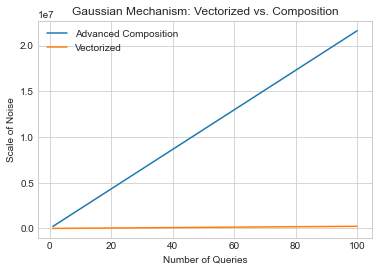
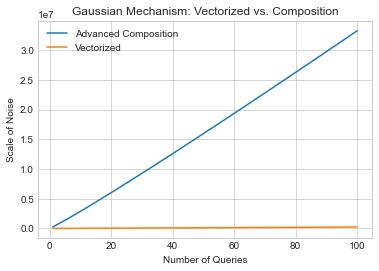
Update documentation

diff --git a/ch8.html b/ch8.html
@@ -473,8 +473,8 @@ title="Print to PDF"
 </div>
 <p>The two lines overlap <em>completely</em>. This means that no matter how many queries we’re running, under <span class="math notranslate nohighlight">\(\epsilon\)</span>-differential privacy, we can’t do any better than sequential composition. That’s because sequential composition is just as good as vectorizing the query, effectively converting it to a single query without involving composition, and we can’t do any better than that.</p>
 <p>What about <span class="math notranslate nohighlight">\((\epsilon, \delta)\)</span>-differential privacy? The story is a little different there. In the sequential composition case, we can use advanced composition; we have to be a little careful to ensure that the total privacy cost is exactly <span class="math notranslate nohighlight">\((\epsilon, \delta)\)</span>. Specifically, we set <span class="math notranslate nohighlight">\(\epsilon_i = \frac{\epsilon}{2 \sqrt{2k \log(1/\delta')}}\)</span>, <span class="math notranslate nohighlight">\(\delta_i = \frac{\delta}{2k}\)</span>, and <span class="math notranslate nohighlight">\(\delta' = \frac{\delta}{2}\)</span> (splitting <span class="math notranslate nohighlight">\(\delta\)</span> to go 50% towards the queries, and 50% towards advanced composition). By advanced composition, the total privacy cost for all <span class="math notranslate nohighlight">\(k\)</span> queries is <span class="math notranslate nohighlight">\((\epsilon, \delta)\)</span>. The scale of the noise, by the Gaussian mechanism, is:</p>
-<div class="amsmath math notranslate nohighlight" id="equation-2ca46837-ee75-4f2c-8f62-ad0c5d54a1bd">
-<span class="eqno">(22)<a class="headerlink" href="#equation-2ca46837-ee75-4f2c-8f62-ad0c5d54a1bd" title="Permalink to this equation">#</a></span>\[\begin{align}
+<div class="amsmath math notranslate nohighlight" id="equation-56bfe49c-38d4-4024-90ab-d551a4c32bb1">
+<span class="eqno">(22)<a class="headerlink" href="#equation-56bfe49c-38d4-4024-90ab-d551a4c32bb1" title="Permalink to this equation">#</a></span>\[\begin{align}
 \sigma^2 =&amp; \frac{2 \log\left(\frac{1.25}{\delta_i}\right)}{\epsilon_i^2}\\
  =&amp; \frac{16 k \log\left(\frac{1}{\delta'}\right) \log\left(\frac{1.25}{\delta_i}\right)}{\epsilon^2}\\
  =&amp; \frac{16 k \log\left(\frac{2}{\delta}\right) \log\left(\frac{2.5 k}{\delta}\right)}{\epsilon^2}\\
@@ -489,7 +489,7 @@ title="Print to PDF"
 
 <span class="c1"># L2 sensitivity of each query: 1</span>
 <span class="c1"># number of queries: k</span>
-<span class="n">noises_seq</span> <span class="o">=</span> <span class="p">[</span><span class="mi">16</span><span class="o">*</span><span class="n">k</span><span class="o">*</span><span class="n">np</span><span class="o">.</span><span class="n">log</span><span class="p">(</span><span class="mf">1.25</span><span class="o">/</span><span class="n">delta</span><span class="p">)</span><span class="o">*</span><span class="n">np</span><span class="o">.</span><span class="n">log</span><span class="p">(</span><span class="mi">1</span><span class="o">/</span><span class="n">delta</span><span class="p">)</span><span class="o">/</span><span class="p">(</span><span class="n">epsilon</span><span class="o">**</span><span class="mi">2</span><span class="p">)</span> <span class="k">for</span> <span class="n">k</span> <span class="ow">in</span> <span class="n">ks</span><span class="p">]</span>
+<span class="n">noises_seq</span> <span class="o">=</span> <span class="p">[</span><span class="mi">16</span><span class="o">*</span><span class="n">k</span><span class="o">*</span><span class="n">np</span><span class="o">.</span><span class="n">log</span><span class="p">((</span><span class="mf">2.5</span><span class="o">*</span><span class="n">k</span><span class="p">)</span><span class="o">/</span><span class="n">delta</span><span class="p">)</span><span class="o">*</span><span class="n">np</span><span class="o">.</span><span class="n">log</span><span class="p">(</span><span class="mi">2</span><span class="o">/</span><span class="n">delta</span><span class="p">)</span><span class="o">/</span><span class="p">(</span><span class="n">epsilon</span><span class="o">**</span><span class="mi">2</span><span class="p">)</span> <span class="k">for</span> <span class="n">k</span> <span class="ow">in</span> <span class="n">ks</span><span class="p">]</span>
 <span class="n">plt</span><span class="o">.</span><span class="n">plot</span><span class="p">(</span><span class="n">ks</span><span class="p">,</span> <span class="n">noises_seq</span><span class="p">,</span> <span class="n">label</span><span class="o">=</span><span class="s1">&#39;Advanced Composition&#39;</span><span class="p">)</span>
 
 <span class="c1"># number of queries: 1</span>
@@ -511,18 +511,18 @@ title="Print to PDF"
 <div class="section" id="max-divergence-and-renyi-divergence">
 <h2>Max Divergence and Rényi Divergence<a class="headerlink" href="#max-divergence-and-renyi-divergence" title="Permalink to this headline">#</a></h2>
 <p>It turns out that the definition of differential privacy can be stated directly in terms of something called <em>max divergence</em>. In statistics, a <a class="reference external" href="https://en.wikipedia.org/wiki/Divergence_(statistics)"><em>divergence</em></a> is a way of measuring the distance between two probability distributions - which is exactly what we want to do for differential privacy. The <em>max divergence</em> is the worst-case analog of the <a class="reference external" href="https://en.wikipedia.org/wiki/Kullback%E2%80%93Leibler_divergence">Kullback–Leibler divergence</a>, one of the most common such measures. The max divergence between two probability distributions <span class="math notranslate nohighlight">\(Y\)</span> and <span class="math notranslate nohighlight">\(Z\)</span> is defined to be:</p>
-<div class="amsmath math notranslate nohighlight" id="equation-134c44db-1a00-4066-a55b-366f78b96691">
-<span class="eqno">(23)<a class="headerlink" href="#equation-134c44db-1a00-4066-a55b-366f78b96691" title="Permalink to this equation">#</a></span>\[\begin{align}
+<div class="amsmath math notranslate nohighlight" id="equation-581e46b9-94a8-4173-aa50-ea4adfe9fe08">
+<span class="eqno">(23)<a class="headerlink" href="#equation-581e46b9-94a8-4173-aa50-ea4adfe9fe08" title="Permalink to this equation">#</a></span>\[\begin{align}
 D_\infty(Y \Vert Z) = \max_{S \subseteq \text{Supp}(Y)} \Big[\log \frac{Pr[Y \in S]}{Pr[Z \in S]} \Big]
 \end{align}\]</div>
 <p>This already looks a lot like the condition for <span class="math notranslate nohighlight">\(\epsilon\)</span>-differential privacy! In particular, it turns out that <span class="math notranslate nohighlight">\(F\)</span> satisfies <span class="math notranslate nohighlight">\(\epsilon\)</span>-differential privacy if:</p>
-<div class="amsmath math notranslate nohighlight" id="equation-bb7ff112-5dd7-4e70-acca-33a1091c7701">
-<span class="eqno">(24)<a class="headerlink" href="#equation-bb7ff112-5dd7-4e70-acca-33a1091c7701" title="Permalink to this equation">#</a></span>\[\begin{align}
+<div class="amsmath math notranslate nohighlight" id="equation-1fe5936f-06e8-4665-a4ab-f2b12c73f4ed">
+<span class="eqno">(24)<a class="headerlink" href="#equation-1fe5936f-06e8-4665-a4ab-f2b12c73f4ed" title="Permalink to this equation">#</a></span>\[\begin{align}
 D_\infty(F(x) \Vert F(x') \leq \epsilon
 \end{align}\]</div>
 <p>An interesting direction for research in differential privacy is the exploration of alternative privacy definitions in terms of other divergences. Of these, the <a class="reference external" href="https://en.wikipedia.org/wiki/R%C3%A9nyi_entropy#R%C3%A9nyi_divergence">Rényi divergence</a> is particularly interesting, since it also (like max divergence) allows us to recover the original definition of differential privacy. The Rényi divergence of order <span class="math notranslate nohighlight">\(\alpha\)</span> between probability distributions <span class="math notranslate nohighlight">\(P\)</span> and <span class="math notranslate nohighlight">\(Q\)</span> is defined as (where <span class="math notranslate nohighlight">\(P(x)\)</span> and <span class="math notranslate nohighlight">\(Q(x)\)</span> denote the probability density of <span class="math notranslate nohighlight">\(P\)</span> and <span class="math notranslate nohighlight">\(Q\)</span> at point <span class="math notranslate nohighlight">\(x\)</span>, respectively):</p>
-<div class="amsmath math notranslate nohighlight" id="equation-0560df47-5e6c-4e8f-995b-f4659ae13ebb">
-<span class="eqno">(25)<a class="headerlink" href="#equation-0560df47-5e6c-4e8f-995b-f4659ae13ebb" title="Permalink to this equation">#</a></span>\[\begin{align}
+<div class="amsmath math notranslate nohighlight" id="equation-6ef86378-d190-44fe-bf0a-f0917f354d5c">
+<span class="eqno">(25)<a class="headerlink" href="#equation-6ef86378-d190-44fe-bf0a-f0917f354d5c" title="Permalink to this equation">#</a></span>\[\begin{align}
 D_\alpha(P \Vert Q) = \frac{1}{\alpha - 1} \log E_{x \sim Q} \Big(\frac{P(x)}{Q(x)}\Big)^\alpha
 \end{align}\]</div>
 <p>If we set <span class="math notranslate nohighlight">\(\alpha = \infty\)</span>, then we immediately recover the definition of <span class="math notranslate nohighlight">\(\epsilon\)</span>-differential privacy! The obvious question arises: what happens if we set <span class="math notranslate nohighlight">\(\alpha\)</span> to something else? As we’ll see, it’s possible to use the Rényi divergence to derive really interesting relaxations of differential privacy that allow better composition theorems while at the same time avoiding the possibility of “catastrophe” which is possible under <span class="math notranslate nohighlight">\((\epsilon, \delta)\)</span>-differential privacy.</p>
@@ -530,15 +530,15 @@ D_\alpha(P \Vert Q) = \frac{1}{\alpha - 1} \log E_{x \sim Q} \Big(\frac{P(x)}{Q(
 <div class="section" id="renyi-differential-privacy">
 <h2>Rényi Differential Privacy<a class="headerlink" href="#renyi-differential-privacy" title="Permalink to this headline">#</a></h2>
 <p>In 2017, Ilya Mironov proposed <a class="reference external" href="https://arxiv.org/abs/1702.07476">Rényi differential privacy (RDP)</a> <span id="id1">[<a class="reference internal" href="bibliography.html#id13" title="Ilya Mironov. Renyi differential privacy. In Computer Security Foundations Symposium (CSF), 2017 IEEE 30th, 263–275. IEEE, 2017.">10</a>]</span>. A randomized mechanism <span class="math notranslate nohighlight">\(F\)</span> satisfies <span class="math notranslate nohighlight">\((\alpha, \bar{\epsilon})\)</span>-RDP if for all neighboring datasets <span class="math notranslate nohighlight">\(x\)</span> and <span class="math notranslate nohighlight">\(x'\)</span></p>
-<div class="amsmath math notranslate nohighlight" id="equation-559b3cf5-3179-412b-92a8-11d0a9381a73">
-<span class="eqno">(26)<a class="headerlink" href="#equation-559b3cf5-3179-412b-92a8-11d0a9381a73" title="Permalink to this equation">#</a></span>\[\begin{align}
+<div class="amsmath math notranslate nohighlight" id="equation-e24c1347-c408-47c3-92a5-959ae7e8d971">
+<span class="eqno">(26)<a class="headerlink" href="#equation-e24c1347-c408-47c3-92a5-959ae7e8d971" title="Permalink to this equation">#</a></span>\[\begin{align}
 D_\alpha(F(x) \Vert F(x')) \leq \bar{\epsilon}
 \end{align}\]</div>
 <p>In other words, RDP requires that the Rényi divergence of order <span class="math notranslate nohighlight">\(\alpha\)</span> between <span class="math notranslate nohighlight">\(F(x)\)</span> and <span class="math notranslate nohighlight">\(F(x')\)</span> to be bounded by <span class="math notranslate nohighlight">\(\bar{\epsilon}\)</span>. Note that we’ll use <span class="math notranslate nohighlight">\(\bar{\epsilon}\)</span> to denote the <span class="math notranslate nohighlight">\(\epsilon\)</span> parameter of RDP, in order to distinguish it from the <span class="math notranslate nohighlight">\(\epsilon\)</span> in pure <span class="math notranslate nohighlight">\(\epsilon\)</span>-differential privacy and <span class="math notranslate nohighlight">\((\epsilon, \delta)\)</span>-differential privacy.</p>
 <p>A key property of Rényi differential privacy is that a mechanism which satisfies RDP also satisfies <span class="math notranslate nohighlight">\((\epsilon, \delta)\)</span>-differential privacy. Specifically, if <span class="math notranslate nohighlight">\(F\)</span> satisfies <span class="math notranslate nohighlight">\((\alpha, \bar{\epsilon})\)</span>-RDP, then for <span class="math notranslate nohighlight">\(\delta &gt; 0\)</span>, <span class="math notranslate nohighlight">\(F\)</span> satisfies <span class="math notranslate nohighlight">\((\epsilon, \delta)\)</span>-differential privacy for <span class="math notranslate nohighlight">\(\epsilon = \bar{\epsilon} + \frac{\log(1/\delta)}{\alpha - 1}\)</span>. The analyst is free to pick any value of <span class="math notranslate nohighlight">\(\delta\)</span>; a meaningful value (e.g. <span class="math notranslate nohighlight">\(\delta \leq \frac{1}{n^2}\)</span>) should be picked in practice.</p>
 <p>The basic mechanism for achieving Rényi differential privacy is the Gaussian mechanism. Specifically, for a function <span class="math notranslate nohighlight">\(f : \mathcal{D} \rightarrow \mathbb{R}^k\)</span> with <span class="math notranslate nohighlight">\(L2\)</span> sensitivity <span class="math notranslate nohighlight">\(\Delta f\)</span>, the following mechanism satisfies <span class="math notranslate nohighlight">\((\alpha, \bar{\epsilon})\)</span>-RDP:</p>
-<div class="amsmath math notranslate nohighlight" id="equation-608a0135-b5e9-42bc-92b6-7debea055223">
-<span class="eqno">(27)<a class="headerlink" href="#equation-608a0135-b5e9-42bc-92b6-7debea055223" title="Permalink to this equation">#</a></span>\[\begin{align}
+<div class="amsmath math notranslate nohighlight" id="equation-39d5cc08-875f-446c-baf1-3dbcfc29836f">
+<span class="eqno">(27)<a class="headerlink" href="#equation-39d5cc08-875f-446c-baf1-3dbcfc29836f" title="Permalink to this equation">#</a></span>\[\begin{align}
 F(x) = f(x) + \mathcal{N}(\sigma^2) \text{ where } \sigma^2 = \frac{\Delta f^2 \alpha}{2\bar{\epsilon}}
 \end{align}\]</div>
 <p>We can implement the Gaussian mechanism for Rényi differential privacy as follows:</p>
@@ -564,14 +564,14 @@ F(x) = f(x) + \mathcal{N}(\sigma^2) \text{ where } \sigma^2 = \frac{\Delta f^2 \
 <div class="section" id="zero-concentrated-differential-privacy">
 <h2>Zero-Concentrated Differential Privacy<a class="headerlink" href="#zero-concentrated-differential-privacy" title="Permalink to this headline">#</a></h2>
 <p>In concurrent work released in 2016, Mark Bun and Thomas Steinke proposed <a class="reference external" href="https://arxiv.org/abs/1605.02065">zero-concentrated differential privacy (zCDP)</a> <span id="id2">[<a class="reference internal" href="bibliography.html#id14" title="Mark Bun and Thomas Steinke. Concentrated differential privacy: simplifications, extensions, and lower bounds. In Theory of Cryptography Conference, 635–658. Springer, 2016.">11</a>]</span>. Like RDP, zCDP is defined in terms of the Rényi divergence, but it includes only a single privacy parameter (<span class="math notranslate nohighlight">\(\rho\)</span>). A randomized mechanism <span class="math notranslate nohighlight">\(F\)</span> satisfies <span class="math notranslate nohighlight">\(\rho\)</span>-zCDP if for all neighboring datasets <span class="math notranslate nohighlight">\(x\)</span> and <span class="math notranslate nohighlight">\(x'\)</span>, and all <span class="math notranslate nohighlight">\(\alpha \in (1, \infty)\)</span>:</p>
-<div class="amsmath math notranslate nohighlight" id="equation-7fc8ccc8-2d2a-4b56-8987-be629dbb0ee9">
-<span class="eqno">(28)<a class="headerlink" href="#equation-7fc8ccc8-2d2a-4b56-8987-be629dbb0ee9" title="Permalink to this equation">#</a></span>\[\begin{align}
+<div class="amsmath math notranslate nohighlight" id="equation-e69e4072-e6e8-4440-aea5-502a8ebf7118">
+<span class="eqno">(28)<a class="headerlink" href="#equation-e69e4072-e6e8-4440-aea5-502a8ebf7118" title="Permalink to this equation">#</a></span>\[\begin{align}
 D_\alpha (F(x) \Vert F(x')) \leq \rho\alpha
 \end{align}\]</div>
 <p>This is a stronger requirement than RDP, because it restricts the Rényi divergence of many orders; however, the bound becomes more relaxed as <span class="math notranslate nohighlight">\(\alpha\)</span> grows. Like RDP, zCDP can be converted to <span class="math notranslate nohighlight">\((\epsilon, \delta)\)</span>-differential privacy: if <span class="math notranslate nohighlight">\(F\)</span> satisfies <span class="math notranslate nohighlight">\(\rho\)</span>-zCDP, then for <span class="math notranslate nohighlight">\(\delta &gt; 0\)</span>, <span class="math notranslate nohighlight">\(F\)</span> satisfies <span class="math notranslate nohighlight">\((\epsilon, \delta)\)</span>-differential privacy for <span class="math notranslate nohighlight">\(\epsilon = \rho + 2\sqrt{\rho \log(1/\delta)}\)</span>.</p>
 <p>zCDP is also similar to RDP in that the Gaussian mechanism can be used as a basic mechanism. Specifically, for a function <span class="math notranslate nohighlight">\(f : \mathcal{D} \rightarrow \mathbb{R}^k\)</span> with <span class="math notranslate nohighlight">\(L2\)</span> sensitivity <span class="math notranslate nohighlight">\(\Delta f\)</span>, the following mechanism satisfies <span class="math notranslate nohighlight">\(\rho\)</span>-zCDP:</p>
-<div class="amsmath math notranslate nohighlight" id="equation-d9b4424a-a670-4a8d-94eb-403a8975ffd4">
-<span class="eqno">(29)<a class="headerlink" href="#equation-d9b4424a-a670-4a8d-94eb-403a8975ffd4" title="Permalink to this equation">#</a></span>\[\begin{align}
+<div class="amsmath math notranslate nohighlight" id="equation-a2f3396d-5e6d-40c0-8f42-0e09afef7ef2">
+<span class="eqno">(29)<a class="headerlink" href="#equation-a2f3396d-5e6d-40c0-8f42-0e09afef7ef2" title="Permalink to this equation">#</a></span>\[\begin{align}
 F(x) = f(x) + \mathcal{N}(\sigma^2) \text{ where } \sigma^2 = \frac{\Delta f^2}{2\rho}
 \end{align}\]</div>
 <p>As with RDP, this mechanism is easy to implement:</p>
